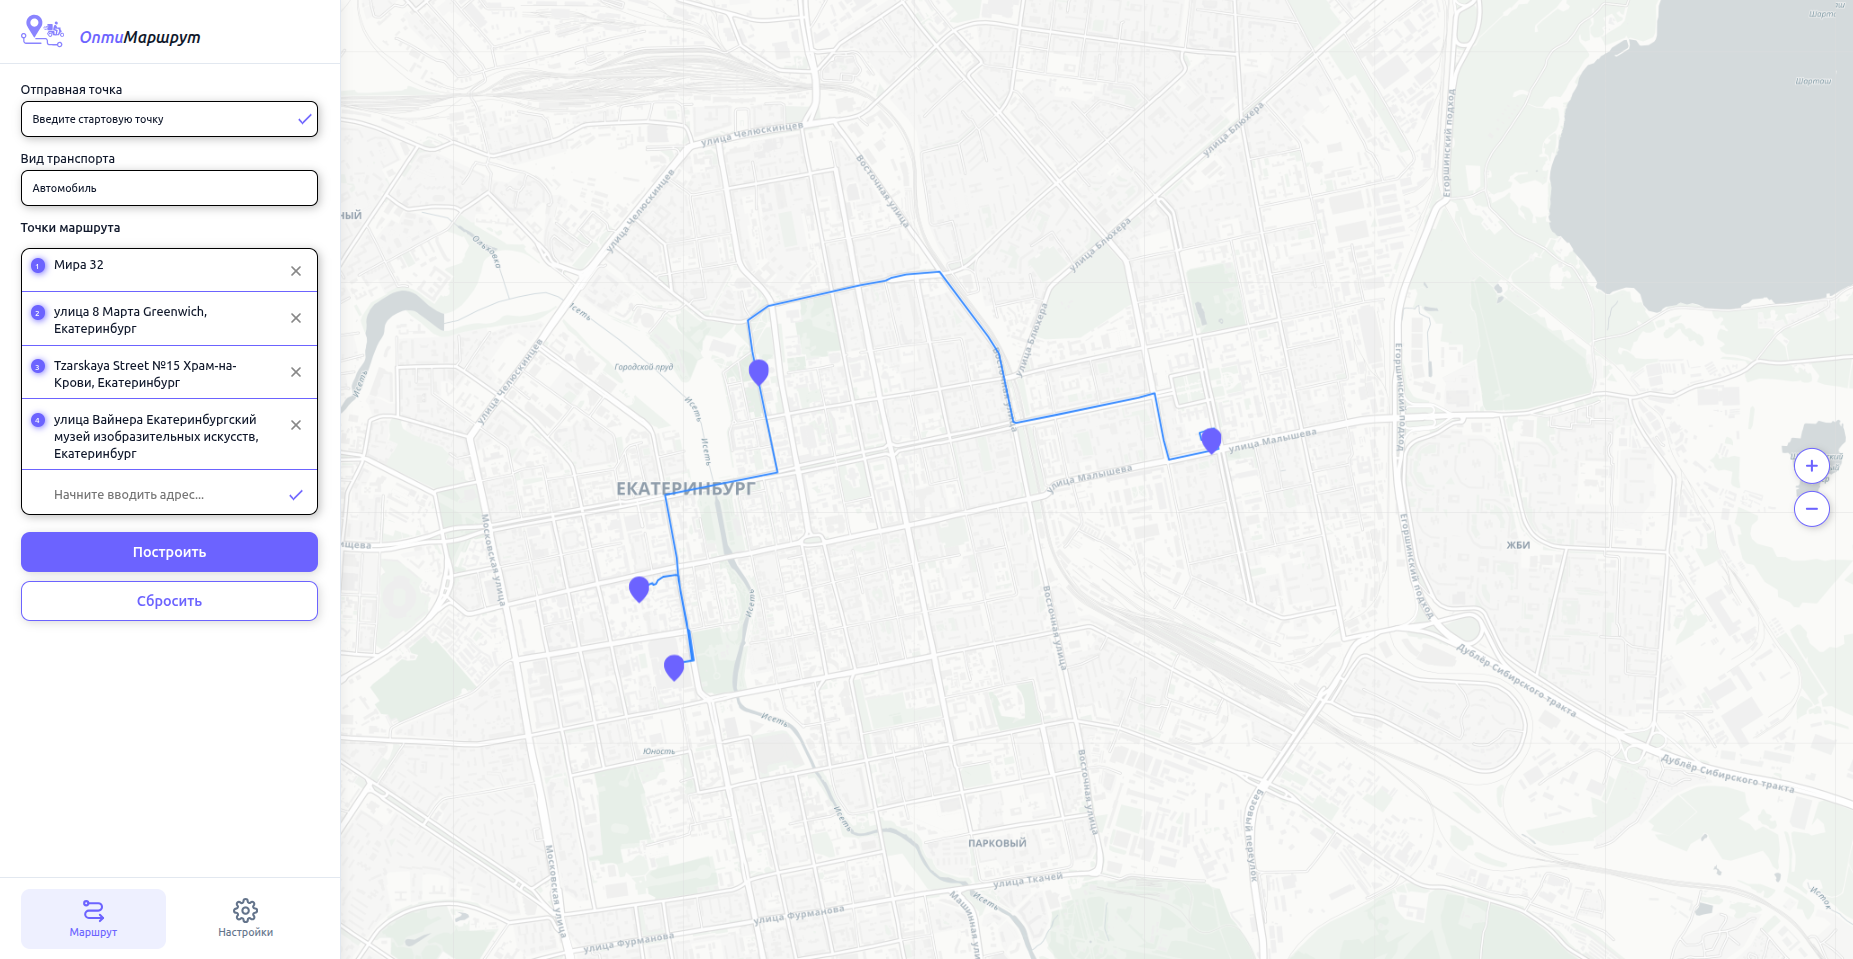
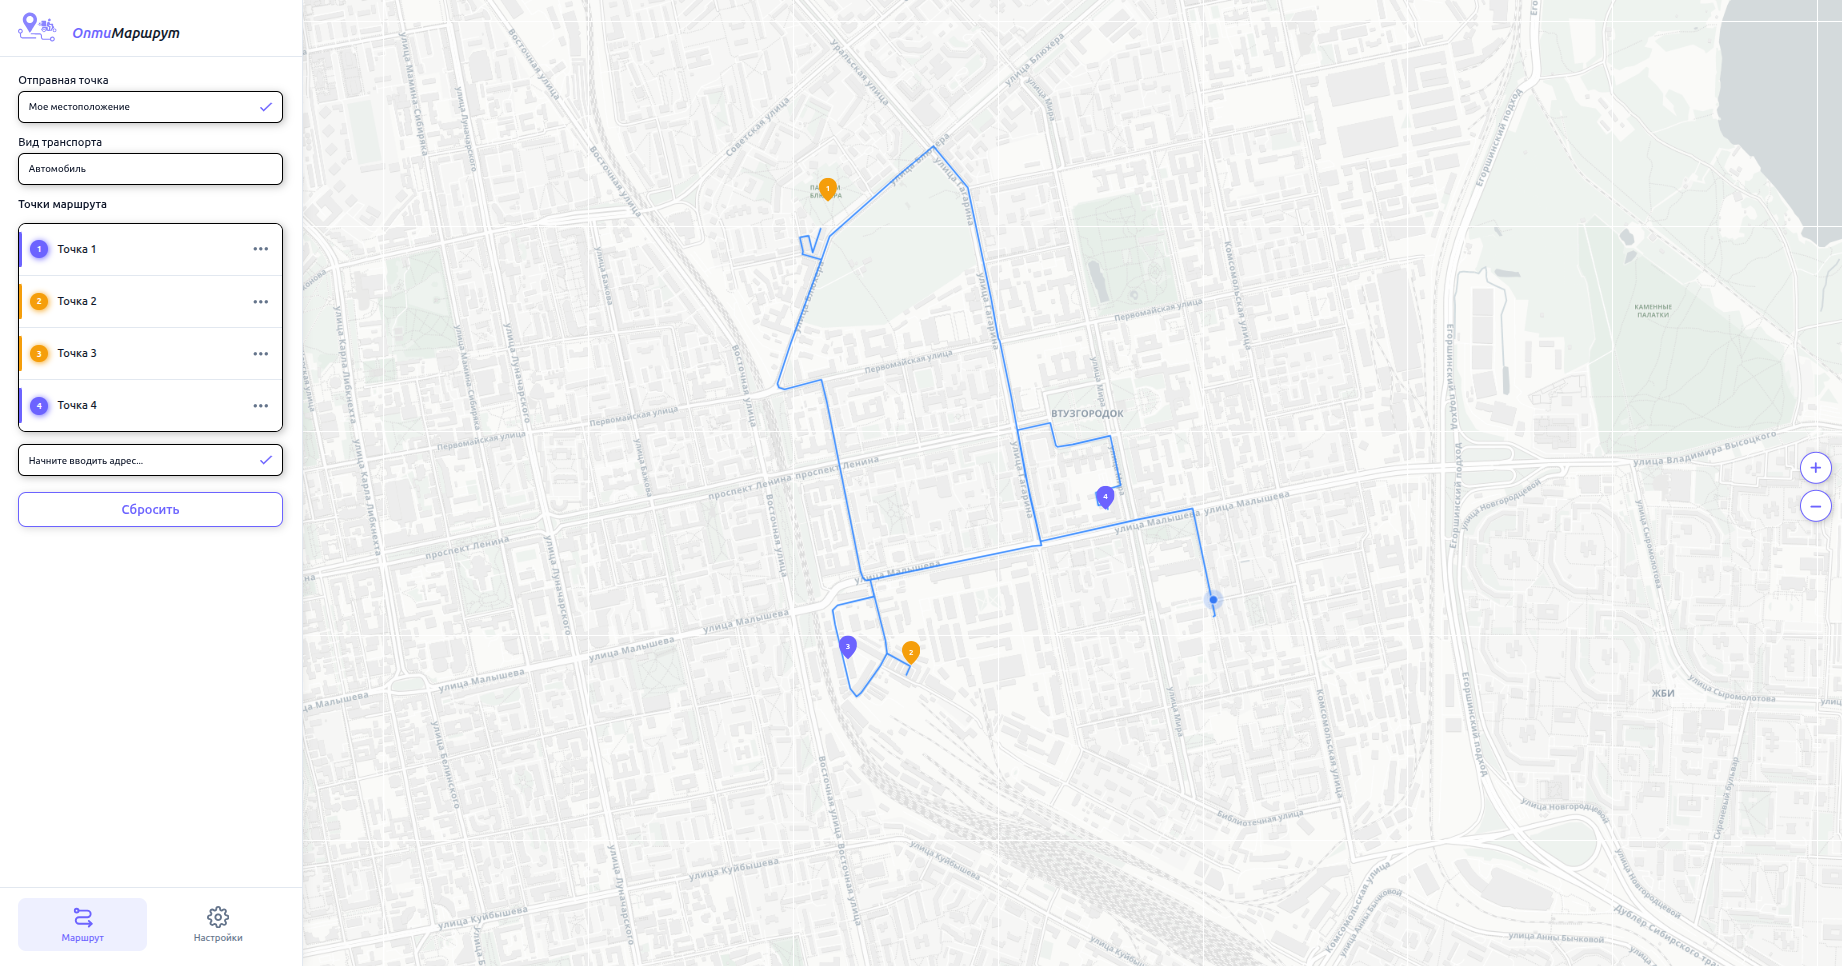
priority fix

diff --git a/frontend/src/components/RouteScreen/waypoints/WaypointSettings.jsx b/frontend/src/components/RouteScreen/waypoints/WaypointSettings.jsx
@@ -1,4 +1,5 @@
 import { useCallback, useState } from 'react';
+import { useNavigate } from 'react-router-dom';
 import { LuMapPin } from 'react-icons/lu';
 import { IoMdCheckmark } from 'react-icons/io';
 import layoutStyles from '../../layouts/layout.module.scss';
@@ -8,12 +9,15 @@ import { useDismissOnOutsideClick } from '../../../hooks/useDismissOnOutsideClic
 import { geocodeAddress } from '../../../api/geocodeAddress';
 import { parseAddress } from '../../../utils/parseAddress';
 import { PRIORITY_OPTIONS, POINT_PRIORITIES } from '../../../constants/pointPriority';
+import { useIsDesktop } from '../../../hooks/useIsDesktop';
 import { resolvePointName } from '../../../utils/pointName';
 import fieldStyles from '../../../shared/AddressField/AddressField.module.scss';
 import styles from './WaypointSettings.module.scss';
 
 const WaypointSettings = ({ point, listIndex, onBack }) => {
     const { updatePoint, removePoint, focusOnMap } = useRoute();
+    const navigate = useNavigate();
+    const isDesktop = useIsDesktop();
     const [priority, setPriority] = useState(point.priority ?? POINT_PRIORITIES.NORMAL);
     const [name, setName] = useState(point.name?.trim() || point.address?.trim() || '');
     const [address, setAddress] = useState(point.address);
@@ -142,7 +146,22 @@ const WaypointSettings = ({ point, listIndex, onBack }) => {
     };
 
     const handleShowOnMap = () => {
+        if (!Number.isFinite(latitude) || !Number.isFinite(longitude)) {
+            setAddressError('Координаты точки не определены. Подтвердите адрес.');
+            return;
+        }
+
         focusOnMap(latitude, longitude);
+        onBack();
+
+        if (!isDesktop) {
+            navigate('/');
+        }
+    };
+
+    const handlePriorityChange = (value) => {
+        setPriority(value);
+        updatePoint(point.id, { priority: value });
     };
 
     const handleAddressKeyDown = (event) => {
@@ -250,7 +269,7 @@ const WaypointSettings = ({ point, listIndex, onBack }) => {
                                     name={`priority-${point.id}`}
                                     value={option.value}
                                     checked={priority === option.value}
-                                    onChange={() => setPriority(option.value)}
+                                    onChange={() => handlePriorityChange(option.value)}
                                     className={styles.priorityRadio}
                                 />
                                 <span className={styles.priorityRadioVisual} />

diff --git a/frontend/src/api/fetchRouteGeoJson.js b/frontend/src/api/fetchRouteGeoJson.js
@@ -28,13 +28,19 @@ export async function fetchRouteGeoJson(
     });
 
     if (!response.ok) {
-        const errorBody = await response.json().catch(() => ({}));
-        const detail = errorBody.detail;
-        const message = typeof detail === 'string'
-            ? detail
-            : Array.isArray(detail)
-                ? detail.map((e) => e.msg ?? String(e)).join(', ')
-                : 'Не удалось построить маршрут';
+        const contentType = response.headers.get('content-type') ?? '';
+        let message = `Ошибка сервера (${response.status})`;
+
+        if (contentType.includes('application/json')) {
+            const errorBody = await response.json().catch(() => ({}));
+            const detail = errorBody.detail;
+            message = typeof detail === 'string'
+                ? detail
+                : Array.isArray(detail)
+                    ? detail.map((e) => e.msg ?? String(e)).join(', ')
+                    : message;
+        }
+
         throw new Error(message);
     }
 

diff --git a/frontend/src/components/layouts/Layout.jsx b/frontend/src/components/layouts/Layout.jsx
@@ -3,9 +3,12 @@ import Header from './header/Header';
 import NavigationBar from './NavigationBar/NavigationBar';
 import RouteMapView from '../map/RouteMapView';
 import YandexMetrikaTracker from '../../analytics/YandexMetrikaTracker';
+import { useIsDesktop } from '../../hooks/useIsDesktop';
 import layoutStyles from './layout.module.scss';
 
 const Layout = () => {
+    const isDesktop = useIsDesktop();
+
     return (
         <div className={layoutStyles.layout}>
             <YandexMetrikaTracker />
@@ -26,9 +29,11 @@ const Layout = () => {
                     <NavigationBar variant="desktop" />
                 </aside>
 
-                <div className={layoutStyles.mapPane}>
-                    <RouteMapView />
-                </div>
+                {isDesktop && (
+                    <div className={layoutStyles.mapPane}>
+                        <RouteMapView />
+                    </div>
+                )}
             </div>
 
             <NavigationBar variant="mobile" />

diff --git a/frontend/src/components/map/MapFocusController.jsx b/frontend/src/components/map/MapFocusController.jsx
@@ -11,9 +11,18 @@ const MapFocusController = () => {
             return;
         }
 
-        map.flyTo([mapFocus.latitude, mapFocus.longitude], Math.max(map.getZoom(), 15), {
-            duration: 0.8,
-        });
+        const { latitude, longitude } = mapFocus;
+        if (!Number.isFinite(latitude) || !Number.isFinite(longitude)) {
+            return;
+        }
+
+        try {
+            map.flyTo([latitude, longitude], Math.max(map.getZoom(), 15), {
+                duration: 0.8,
+            });
+        } catch {
+            // ignore invalid map coordinates
+        }
     }, [map, mapFocus]);
 
     return null;

diff --git a/frontend/src/context/RouteContext.jsx b/frontend/src/context/RouteContext.jsx
@@ -467,6 +467,10 @@ export const RouteProvider = ({ children }) => {
     }, [invalidateRoute]);
 
     const focusOnMap = useCallback((latitude, longitude) => {
+        if (!Number.isFinite(latitude) || !Number.isFinite(longitude)) {
+            return;
+        }
+
         setMapFocus({ latitude, longitude, nonce: Date.now() });
     }, []);
 
